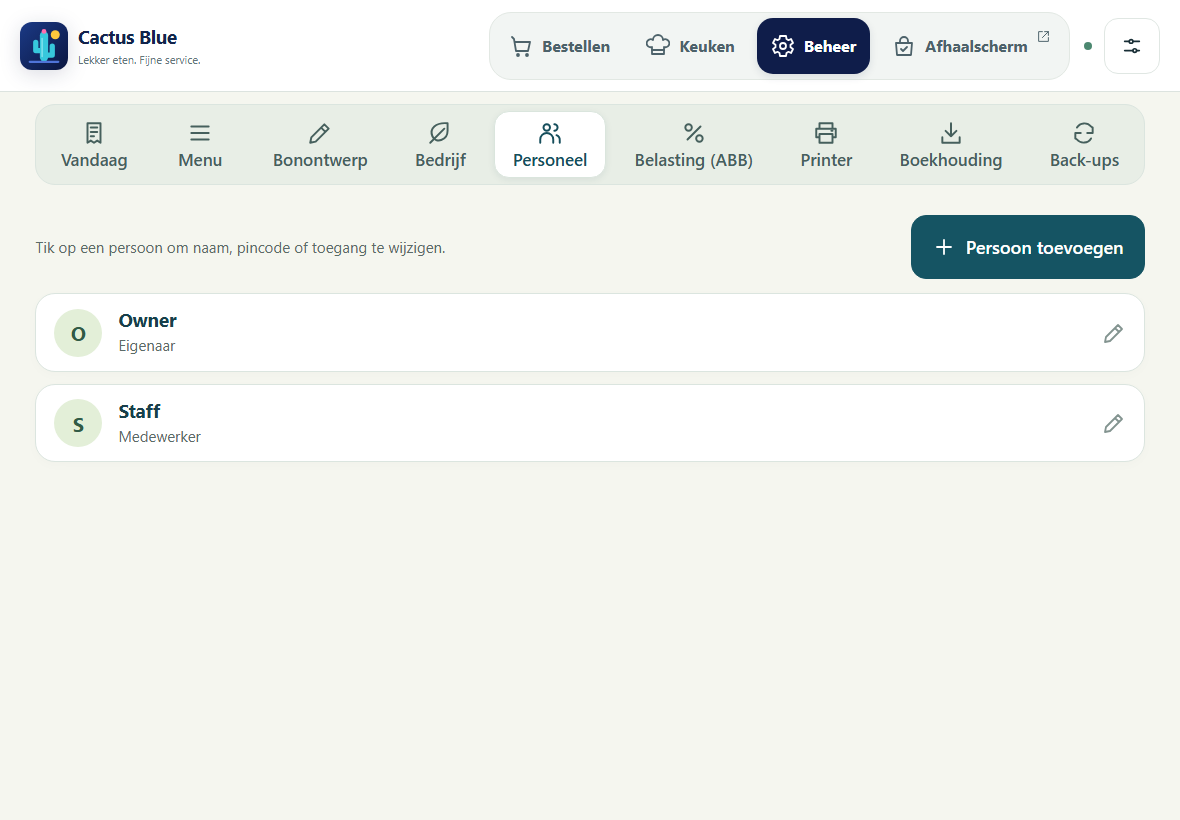
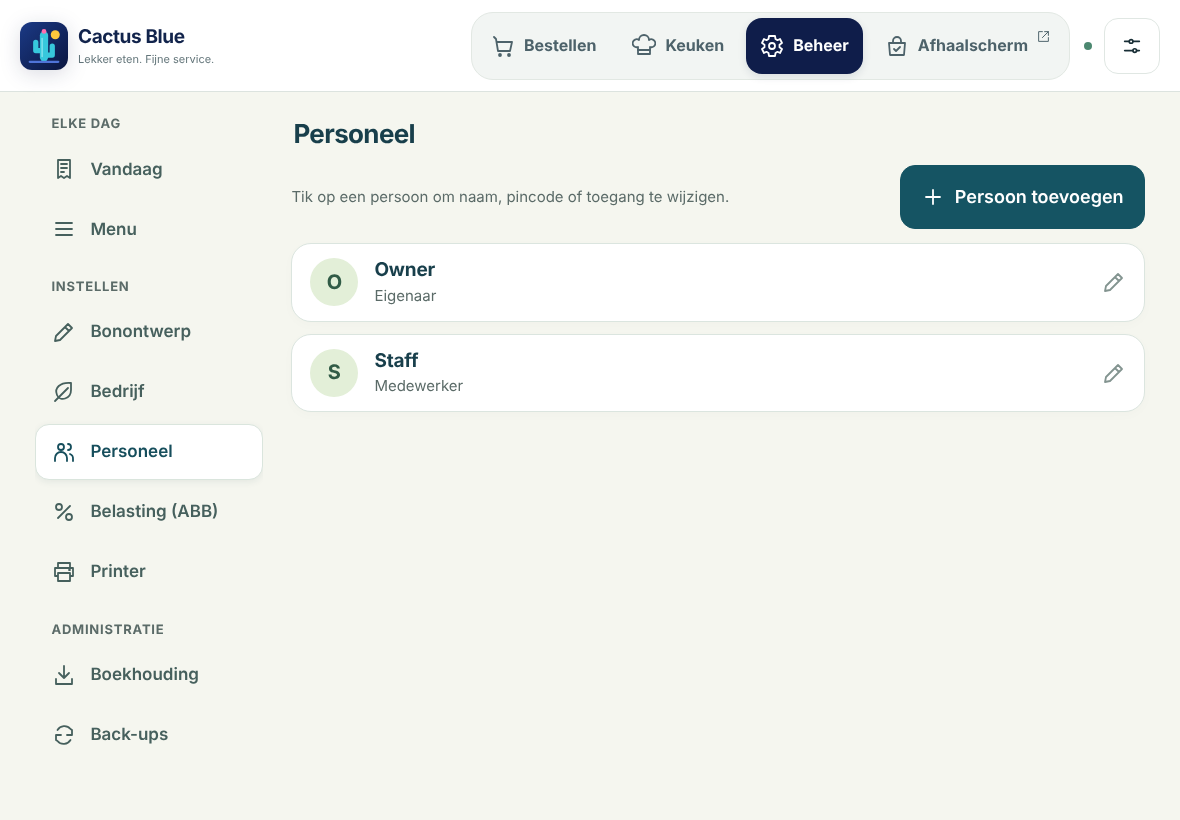
UX15: admin clean-up for readability and layout; kitchen follow-ups
Admin
- Sections grouped (Every day / Set up / Records). From 1100 px wide the
  same nav is a sticky side menu; narrower it stays the sideways row with
  thin group dividers. Tabs carry data-tab for tests and manual shots.
- Every page opens with its name and one-line description (visually
  hidden on phones and on Receipt design, which has its own header).
- 'notice info' for notes that only explain (Tax, Printer); amber stays
  for things to act on. Tighter notices on phones.
- Tax rows wrap their buttons under the text instead of squeezing it;
  beside the side menu, category Delete shows only its bin.

Kitchen
- Live updates pill kept (the manual's morning check relies on it); on
  phones it is just the green sign and the Kitchen heading is hidden so
  Wipe screen fits.

Also: e2e/kitchen-taps.mjs; manual EN/NL paragraph on short taps and
Wipe screen, retaken kitchen/admin pictures; shots.mjs selects tabs by
data-tab; handoff and board rows to review.

Claude-Session: https://claude.ai/code/session_01WTUtDnin2kAe3jG58CBoBK

diff --git a/packages/web/src/apps/admin/admin.css b/packages/web/src/apps/admin/admin.css
@@ -17,7 +17,12 @@
   margin: 0 auto;
 }
 .admin .admin-body { overflow: visible; padding: 8px 0 0; min-width: 0; }
-.admin-hint { margin: 0 2px 16px; color: var(--admin-muted); font-size: 15px; line-height: 1.5; }
+/* Every page opens with its name and, where it helps, one line on what it is for. */
+.admin-page-head { display: flex; flex-wrap: wrap; align-items: baseline; gap: 4px 16px; margin: 4px 2px 16px; }
+.admin-page-head h1 { margin: 0; font-size: 26px; line-height: 1.2; letter-spacing: -.025em; color: var(--admin-ink); }
+.admin-page-head p { flex: 1 1 280px; margin: 0; color: var(--admin-muted); font-size: 16px; line-height: 1.45; }
+.admin-page-head.is-quiet { margin: 0; }
+.admin-page-head.is-quiet h1 { position: absolute; width: 1px; height: 1px; overflow: hidden; clip-path: inset(50%); white-space: nowrap; }
 .admin .muted { color: var(--admin-muted); }
 
 /* ---- buttons ---- */
@@ -51,6 +56,9 @@
 .admin .admin-tabs .admin-scroll-track > button { flex: 1 0 auto; flex-direction: column; gap: 3px; min-width: 88px; padding: 8px 14px; line-height: 1.2; border-color: transparent; background: transparent; color: #46605d; }
 .admin .admin-tabs .admin-scroll-track > button svg { width: 26px; height: 26px; }
 .admin .admin-tabs .admin-scroll-track > button.on { background: #fff; color: #164e5c; box-shadow: 0 2px 7px #183f4b14; border-color: #dae5dd; }
+/* In the sideways row a group name is only a thin divider; the side menu below shows the words. */
+.admin-tabs-group { flex: none; align-self: stretch; width: 2px; margin: 10px 2px; border-radius: 2px; background: #c9d6cf; overflow: hidden; color: transparent; font-size: 0; }
+.admin-tabs-group:first-child { display: none; }
 
 /* ---- fields ---- */
 .admin :is(input, select) { min-height: var(--admin-field); min-width: 0; font-size: 17px; padding: 0 16px; border-color: #cddad2; border-radius: 14px; }
@@ -117,6 +125,8 @@
 /* ---- cards with their own buttons (tax, print jobs) ---- */
 .admin .orders { padding: 0; gap: 12px; }
 .admin .orders li { padding: 18px; border: 1px solid var(--admin-line); border-radius: 20px; box-shadow: 0 3px 12px #183f4b05; gap: 16px; min-height: var(--tap-xl); }
+/* The text keeps room to be read; when it would get narrower than this, the buttons move under it instead. */
+.admin .orders .grow { flex: 1 1 260px; }
 .admin .orders .grow b { font-size: 19px; }
 .admin .orders small { display: block; margin-top: 5px; font-size: 15px; line-height: 1.5; overflow-wrap: anywhere; }
 .admin .orders li.inactive { opacity: 1; background: #f0f2ed; }
@@ -129,6 +139,7 @@
 .admin-toolbar { display: flex; flex-wrap: wrap; align-items: center; gap: 10px; padding: 14px 0; }
 .admin-toolbar-hint { flex: 1 1 200px; margin: 0; color: var(--admin-muted); font-size: 15px; line-height: 1.45; }
 .admin .admin-remove { margin-left: 8px; }
+.staff-admin > .admin-toolbar:first-child { padding-top: 0; }
 .admin .admin-toolbar .admin-add { margin-left: auto; }
 /* Category name, its tools and Add item share one row, so the list starts high on a landscape tablet. */
 .menu-head { display: grid; grid-template-columns: auto minmax(0, 1fr) auto; grid-template-areas: "title tools add"; align-items: center; gap: 10px 18px; padding: 14px 0; }
@@ -143,6 +154,9 @@
 .admin .error { color: #9a3328; background: #fff0ed; border: 1px solid #f0c8bf; }
 .admin .ok { color: #2a6040; background: #edf5e8; border: 1px solid #cdddca; }
 .admin .notice { background: #fff9ea; border-color: #eadcb5; border-left: 4px solid #be8723; border-radius: 14px; padding: 16px; line-height: 1.55; color: #645522; margin: 0 0 18px; }
+/* Amber is kept for something to act on. A note that only explains is calm. */
+.admin .notice.info { background: #eef4f4; border-color: #d4e2e2; border-left-color: #6a959b; color: #34525a; font-size: 16px; }
+:root[data-theme=dark] .admin .notice.info { background: var(--info-soft); border-color: var(--line); border-left-color: var(--info); color: var(--ink); }
 .admin .tag { display: inline-flex; align-items: center; gap: 6px; padding: 5px 12px; font-size: 14px; font-weight: 700; line-height: 1.4; white-space: nowrap; }
 .admin .tag svg { width: 16px; height: 16px; }
 .admin .tag.warn { background: #fff0d8; color: #805112; }
@@ -228,6 +242,29 @@
 .books-accounts[open] summary::after { content: '−'; }
 .books .reports-status { margin: 0; }
 
+/* ---- landscape tablets and wider: the sections become a side menu, so the page itself starts at the top ---- */
+@media (min-width: 1100px) {
+  .admin.admin { display: grid; grid-template-columns: 228px minmax(0, 1fr); column-gap: 28px; align-items: start; max-width: 1340px; }
+  .admin-tabbar { margin: 0; padding: 20px 0 16px; max-height: calc(100dvh - 100px); overflow-y: auto; scrollbar-width: thin; }
+  .admin-tabbar::after { display: none; }
+  .admin-tabs.admin-scroll { border: 0; border-radius: 0; background: none; overflow: visible; }
+  .admin-tabs .admin-scroll-track { flex-direction: column; gap: 4px; padding: 0; overflow: visible; }
+  .admin-tabs .admin-scroll-hint { display: none; }
+  .admin .admin-tabs .admin-scroll-track > button { flex: none; flex-direction: row; justify-content: flex-start; gap: 14px; min-width: 0; min-height: var(--tap); padding: 0 16px; border-radius: 14px; text-align: left; white-space: normal; }
+  .admin .admin-tabs .admin-scroll-track > button svg { width: 24px; height: 24px; }
+  .admin .admin-tabs .admin-scroll-track > button:not(.on):active { background: #e8eee6; }
+  .admin-tabs-group, .admin-tabs-group:first-child { display: block; width: auto; height: auto; margin: 16px 16px 4px; background: none; border-radius: 0; color: var(--admin-muted); font-size: 13px; font-weight: 700; letter-spacing: .06em; text-transform: uppercase; }
+  .admin-tabs-group:first-child { margin-top: 2px; }
+  .admin .admin-body { padding-top: 22px; }
+  :root[data-theme=dark] .admin .admin-tabs.admin-scroll { background: none; }
+  :root[data-theme=dark] .admin .admin-tabs .admin-scroll-track > button:not(.on):active { background: var(--soft); }
+}
+/* Beside the side menu the page is narrower: Delete keeps only its red bin, so the menu's tools stay on one row in Dutch too. */
+@media (min-width: 1100px) and (max-width: 1279px) {
+  .admin .admin-toolbar .admin-remove { flex: none; width: var(--tap-lg); padding: 0; }
+  .admin .admin-toolbar .admin-remove span { display: none; }
+}
+
 /* ---- tablets: the reorder arrows drop their words so name, tools and Add item stay on one row, in Dutch too ---- */
 @media (max-width: 1279px) {
   .admin .admin-toolbar .admin-move { flex: none; width: var(--tap-lg); padding: 0; }
@@ -248,6 +285,12 @@
 /* ---- phones ---- */
 @media (max-width: 620px) {
   .admin.admin { padding-bottom: 28px; }
+  /* The chosen tab sits right above, so the page name is left to screen readers here. */
+  .admin-page-head { margin: 0 2px 12px; }
+  .admin-page-head h1 { position: absolute; width: 1px; height: 1px; overflow: hidden; clip-path: inset(50%); white-space: nowrap; }
+  .admin-page-head p { font-size: 15px; }
+  .admin .notice { padding: 12px 14px; font-size: 15px; line-height: 1.45; }
+  .admin-pin-reminder button { min-height: var(--tap); }
   .admin .two { grid-template-columns: minmax(0, 1fr); }
   .admin-form-card { padding: 18px; gap: 16px; }
   .admin .admin-tabs .admin-scroll-track > button { flex-grow: 0; }

diff --git a/packages/web/src/apps/admin/Admin.tsx b/packages/web/src/apps/admin/Admin.tsx
@@ -15,17 +15,23 @@ import { ScrollRow } from './controls';
 import './admin.css';
 import { ReceiptEditor } from './receipt-editor/ReceiptEditor';
 
-const TABS = ['reports', 'menu', 'receipts', 'business', 'staff', 'tax', 'printer', 'books', 'backups'] as const;
-type Tab = (typeof TABS)[number];
+type Tab = 'reports' | 'menu' | 'receipts' | 'business' | 'staff' | 'tax' | 'printer' | 'books' | 'backups';
+/** The pages in three groups: what is used every day, what is set up once, and the records kept for later. */
+const GROUPS: { id: 'daily' | 'setup' | 'records'; tabs: Tab[] }[] = [
+  { id: 'daily', tabs: ['reports', 'menu'] },
+  { id: 'setup', tabs: ['receipts', 'business', 'staff', 'tax', 'printer'] },
+  { id: 'records', tabs: ['books', 'backups'] },
+];
 const tabIcons: Record<Tab, IconName> = { reports: 'receipt', menu: 'menu', receipts: 'edit', business: 'leaf', staff: 'staff', tax: 'tax', printer: 'printer', books: 'download', backups: 'refresh' };
 
 export function Admin() {
-  const { t, lang } = useLang();
+  const { t } = useLang();
   const copy = useAdminCopy();
   const [tab, setTab] = useState<Tab>('reports');
   const root = useRef<HTMLDivElement>(null);
   /* The tabs stay pinned, so a new tab starts at its top instead of wherever the last one was scrolled to. */
   const choose = (x: Tab) => { setTab(x); root.current?.closest('main')?.scrollTo({ top: 0 }); };
+  const label = (x: Tab) => (x === 'receipts' ? copy.receiptDesign : t(`admin.${x}`));
   // A new database starts with the PINs 1234 and 1111. Until they are changed, the first Admin page says so
   // (one quiet line, not on every page); checked again after a visit to Staff.
   const [examplePins, setExamplePins] = useState<string[]>([]);
@@ -38,23 +44,32 @@ export function Admin() {
   return (
     <div className="admin" ref={root}>
       <div className="admin-tabbar">
+        {/* One list for every size: a row that scrolls sideways on phones and portrait tablets, a side menu on a
+            landscape tablet. The group names show in the side menu; in the row they are thin dividers. */}
         <ScrollRow nav className="admin-tabs" label={t('nav.admin')}>
-          {TABS.map((x) => (
-            <button key={x} type="button" className={tab === x ? 'on' : ''} data-active={tab === x} aria-current={tab === x ? 'page' : undefined} onClick={() => choose(x)}>
-              <Icon name={tabIcons[x]} /><span>{x === 'receipts' ? (lang === 'nl' ? 'Bonontwerp' : 'Receipt design') : t(`admin.${x}`)}</span>
-            </button>
-          ))}
+          {GROUPS.flatMap((g) => [
+            <span key={g.id} className="admin-tabs-group">{copy.groups[g.id]}</span>,
+            ...g.tabs.map((x) => (
+              <button key={x} type="button" data-tab={x} className={tab === x ? 'on' : ''} data-active={tab === x} aria-current={tab === x ? 'page' : undefined} onClick={() => choose(x)}>
+                <Icon name={tabIcons[x]} /><span>{label(x)}</span>
+              </button>
+            )),
+          ])}
         </ScrollRow>
       </div>
       <div className="admin-body">
+        {/* Menu and Staff show their one line of help beside their own buttons, to keep the list high on the screen.
+            The receipt editor opens with a heading of its own, so its page name is only for screen readers. */}
+        <header className={`admin-page-head${tab === 'receipts' ? ' is-quiet' : ''}`}>
+          <h1>{label(tab)}</h1>
+          {tab !== 'menu' && tab !== 'staff' && tab !== 'receipts' && <p>{copy[tab]}</p>}
+        </header>
         {examplePins.length > 0 && tab === 'reports' && (
           <p className="notice admin-pin-reminder" role="status">
             <span>{copy.examplePins(examplePins.join(', '))}</span>
             <button type="button" onClick={() => choose('staff')}><Icon name="staff" />{t('admin.staff')}</button>
           </p>
         )}
-        {/* Menu and Staff show their one line of help beside their own buttons, to keep the list high on the screen. */}
-        {tab !== 'menu' && tab !== 'staff' && tab !== 'receipts' && <p className="admin-hint">{copy[tab]}</p>}
         {tab === 'receipts' && <ReceiptEditor />}
         {tab === 'reports' && <ReportsAdmin />}
         {tab === 'menu' && <MenuAdmin />}

diff --git a/packages/web/src/apps/kitchen/Kitchen.tsx b/packages/web/src/apps/kitchen/Kitchen.tsx
@@ -10,7 +10,7 @@ import './kitchen.css';
 
 const copy = {
   en: {
-    subtitle: 'Every ticket, at a glance', reconnect: 'Reconnecting',
+    subtitle: 'Every ticket, at a glance', live: 'Live updates', reconnect: 'Reconnecting',
     active: 'active tickets', emptyHint: 'New orders will appear here automatically.',
     sentEmpty: 'No new tickets', preparingEmpty: 'Nothing cooking yet', readyEmpty: 'Nothing waiting for pickup',
     start: 'Start preparing', ready: 'Mark ready', recall: 'Recall', collected: 'Collected',
@@ -22,7 +22,7 @@ const copy = {
     wipe: 'Wipe screen', wipeHint: 'Pauses touch for 20 seconds so you can wipe the screen',
   },
   nl: {
-    subtitle: 'Elke bon in één oogopslag', reconnect: 'Verbinding herstellen',
+    subtitle: 'Elke bon in één oogopslag', live: 'Live updates', reconnect: 'Verbinding herstellen',
     active: 'actieve bonnen', emptyHint: 'Nieuwe bestellingen verschijnen hier automatisch.',
     sentEmpty: 'Geen nieuwe bonnen', preparingEmpty: 'Nog niets in bereiding', readyEmpty: 'Niets klaar om af te halen',
     start: 'Start bereiding', ready: 'Markeer klaar', recall: 'Terug', collected: 'Opgehaald',
@@ -261,8 +261,7 @@ export function Kitchen() {
           </div>
           <div className="kitchen-overview">
             <span className="kitchen-active"><b>{live.length}</b> {c.active}</span>
-            {/* The bar above already says the truck is connected; here only a lost connection is worth the room. */}
-            <span role="status">{!online && <span className="kitchen-connection reconnecting"><Icon name="wifi-off" size={20} />{c.reconnect}</span>}</span>
+            <span className={`kitchen-connection${online ? '' : ' reconnecting'}`} role="status"><Icon name={online ? 'wifi' : 'wifi-off'} size={20} /><span className="kitchen-connection-label">{online ? c.live : c.reconnect}</span></span>
             <button type="button" className="kitchen-wipe" title={c.wipeHint} aria-label={`${c.wipe}. ${c.wipeHint}`}
               onClick={() => { haptic(10); window.dispatchEvent(new Event(CLEAN_SCREEN_EVENT)); }}>
               <Icon name="sparkles" size={24} /><span>{c.wipe}</span>

diff --git a/packages/web/src/apps/kitchen/kitchen.css b/packages/web/src/apps/kitchen/kitchen.css
@@ -143,6 +143,11 @@
   .kitchen .kitchen-top-undo .kitchen-title, .kitchen .kitchen-top-undo .kitchen-overview { display: none; }
   .kitchen .kitchen-undo { max-width: none; }
   .kitchen .kitchen-wipe { padding: 0 14px; font-size: 17px; }
+  /* The Kitchen button just above already says where this is; the row goes to the connection and Wipe. */
+  .kitchen h1.kitchen-title { position: absolute; width: 1px; height: 1px; overflow: hidden; clip-path: inset(50%); white-space: nowrap; }
+  /* Room is short here: a connected screen shows only the green sign; Reconnecting keeps its word. */
+  .kitchen .kitchen-connection:not(.reconnecting) { padding: 8px 10px; }
+  .kitchen .kitchen-connection:not(.reconnecting) .kitchen-connection-label { position: absolute; width: 1px; height: 1px; overflow: hidden; clip-path: inset(50%); white-space: nowrap; }
   .kitchen .kitchen-switch { gap: 8px; }
   .kitchen .kitchen-switch button { flex-direction: column-reverse; gap: 1px; padding: 4px 4px 8px; font-size: 15px; }
   .kitchen .kitchen-switch button svg { display: none; }

diff --git a/docs/manual/manual.nl.html b/docs/manual/manual.nl.html
@@ -226,6 +226,7 @@
   <li>Tik op <kbd>Opgehaald</kbd> als de gast het heeft. De bestelling verdwijnt van het scherm.</li>
 </ol>
 <p>Te vroeg getikt? Met <kbd>Terug</kbd> gaat een bestelling die klaar was terug naar In bereiding, en <b>Ongedaan maken</b> bovenaan draait uw laatste tik terug. Op elke bon staat hoeveel minuten hij wacht; na 5 en na 10 minuten verandert hij van kleur.</p>
+<p>Vette handen? U kunt overal op een nieuwe bon of een bon in bereiding tikken, maar alleen een korte tik telt: een duim die op het scherm rust of een vinger die eroverheen veegt doet niets. Om het scherm schoon te maken tikt u bovenaan op <kbd>Scherm afnemen</kbd>: aanrakingen zijn dan 20 seconden gepauzeerd terwijl u het afneemt.</p>
 
 <h2>Afhaalscherm</h2>
 <p>Een scherm voor uw gasten: links de nummers die worden bereid, rechts de nummers die klaar zijn. Tik bovenaan op <kbd>Afhaalscherm</kbd>; het opent in een eigen venster. Er is geen pincode voor nodig, dus het kan de hele dag aanstaan op een tablet of tv die gasten kunnen zien.</p>

diff --git a/packages/web/src/apps/admin/copy.ts b/packages/web/src/apps/admin/copy.ts
@@ -3,6 +3,7 @@ import { useLang } from '../../i18n';
 const copy = {
   en: {
     title: 'Make it yours', intro: 'Your menu, team and truck settings in one place.',
+    receiptDesign: 'Receipt design', groups: { daily: 'Every day', setup: 'Set up', records: 'Records' },
     reports: 'Today at a glance, and closing the day for the books.',
     menu: 'Keep your menu ready for service. Prices include ABB.',
     business: 'Business details and the personal touches on every receipt.',
@@ -34,6 +35,7 @@ const copy = {
   },
   nl: {
     title: 'Maak het eigen', intro: 'Je menu, team en instellingen op één plek.',
+    receiptDesign: 'Bonontwerp', groups: { daily: 'Elke dag', setup: 'Instellen', records: 'Administratie' },
     reports: 'Vandaag in één oogopslag, en de dag afsluiten voor de boekhouding.',
     menu: 'Houd je menu klaar voor verkoop. Prijzen zijn inclusief ABB.',
     business: 'Bedrijfsgegevens en de persoonlijke details op elke bon.',

diff --git a/docs/manual/manual.en.html b/docs/manual/manual.en.html
@@ -226,6 +226,7 @@
   <li>Tap <kbd>Collected</kbd> when the guest has it. The order leaves the screen.</li>
 </ol>
 <p>Tapped too soon? <kbd>Recall</kbd> puts a ready order back to Preparing, and <b>Undo</b> at the top takes back your last tap. Each ticket shows how many minutes it has been waiting, and changes colour after 5 and after 10 minutes.</p>
+<p>Greasy hands? You can tap anywhere on a new or preparing ticket, but only a short tap counts: a thumb resting on the screen or a finger sliding across it does nothing. To clean the screen, tap <kbd>Wipe screen</kbd> at the top: touch is paused for 20 seconds while you wipe it.</p>
 
 <h2>Pickup board</h2>
 <p>A screen for your guests: the numbers that are being prepared on the left, the numbers that are ready on the right. Tap <kbd>Pickup board</kbd> at the top; it opens in a window of its own. It needs no PIN, so it can run all day on a tablet or TV that guests can see.</p>

diff --git a/packages/web/src/apps/admin/PrinterAdmin.tsx b/packages/web/src/apps/admin/PrinterAdmin.tsx
@@ -47,7 +47,7 @@ export function PrinterAdmin() {
 
   return (
     <div className="form" aria-busy={busy}>
-      <p className="notice">{t('printer.intro')}</p>
+      <p className="notice info">{t('printer.intro')}</p>
       <section className="admin-form-card">
         <h3><Icon name="printer" />{copy.connection}</h3>
         {toggle('enabled', t('printer.enabled'))}

diff --git a/packages/web/src/apps/admin/TaxAdmin.tsx b/packages/web/src/apps/admin/TaxAdmin.tsx
@@ -155,7 +155,7 @@ export function TaxAdmin() {
 
   return (
     <div>
-      {charged && <p className="notice">{c.intro}</p>}
+      {charged && <p className="notice info">{c.intro}</p>}
       {err && !adding && !draft && switching === null && <div className="error" role="alert">{err}</div>}
       {setup && (
         <div className="tax-switch">

diff --git a/docs/coordination/handoffs/2026-10-30-claude-UX15-UX16.md b/docs/coordination/handoffs/2026-10-30-claude-UX15-UX16.md
@@ -1,0 +1,65 @@
+# Handoff: UX15 + UX16 — admin clean-up, kitchen for greasy fingers
+- Agent: claude   Date: 2026-10-30   Branch: claude/amazing-ramanujan-kne4ff
+
+Owner request: work on UI/UX; clean up the admin screen for readability and layout, and make the kitchen screen
+easier for a cook with greasy fingers.
+
+## What changed
+**Kitchen (UX16, `apps/kitchen/`)**
+- **Wipe screen** button on the kitchen header. It opens the existing 20-second cleaning pause from Screen tools
+  (which was two taps deep). The shell listens for `CLEAN_SCREEN_EVENT` (`lib/display.ts`); this is the only
+  web-core change, a few lines in `ui/AppShell.tsx`.
+- **Only a deliberate tap moves a ticket on.** A press held longer than 0.7 s (a thumb steadying the tablet) or one
+  that slides more than 16 px (a smear) is ignored, on the whole ticket and on its buttons. Keyboard presses
+  (`detail === 0`) always count, so `element.click()` in the e2e tools still works.
+- Options (Extra cheese, Hot) and line notes are larger and nearly as bright as the item; bigger ticket number and
+  quantity badge. Recall is outlined and 20 px from Collected.
+- On phones the "Kitchen" heading is hidden (the highlighted Kitchen button sits just above it) and the connection
+  pill is reduced to its green Wi-Fi sign, so Wipe fits. Reconnecting keeps its word.
+
+**Admin (UX15, `apps/admin/`)**
+- The nine sections are grouped: **Every day** (Today, Menu), **Set up** (Receipt design, Business, Staff, Tax,
+  Printer), **Records** (Bookkeeping, Backups). At 1100 px and wider the same `<nav>` becomes a sticky side menu
+  (CSS only, one DOM); narrower it stays the sideways row, with thin dividers between groups.
+- Every page opens with its name as a heading plus the one-line description. Hidden visually on phones (the chosen
+  tab sits right above) and on Receipt design (the editor has its own header); always there for screen readers.
+- `notice info`: a calm grey-blue style for notes that only explain (Tax intro, Printer intro). Amber is kept for
+  something to act on (unpaid orders, example PINs).
+- Tighter notices on phones; tax rows let their buttons wrap under the text instead of squeezing it; beside the side
+  menu the category Delete keeps only its red bin (aria-label unchanged), so the Dutch menu tools stay on one row.
+
+**Elsewhere**
+- `e2e/kitchen-taps.mjs` (new, added to `e2e/run.mjs`): short tap moves on, resting thumb and smear do not, Wipe pauses touch.
+- `docs/manual/shots.mjs` selects admin tabs by `data-tab` instead of `:nth-child` (the group labels are siblings now).
+- Manual EN + NL: one paragraph in the Kitchen section about short taps and **Wipe screen** / **Scherm afnemen**.
+  Retook the pictures of the screens that changed (kitchen, admin pages, close-day); the rest are untouched.
+
+## Contracts touched
+None. No routes, events or schemas changed. New DOM hooks: `.admin-tabs button[data-tab]`, `.admin-tabs-group`,
+`.admin-page-head`, `.kitchen-wipe`.
+
+## How to verify
+```bash
+npm run check
+npm run e2e
+```
+All 7 browser checks pass, including `kitchen-taps.mjs`. In a browser: Kitchen, tap **Wipe screen** (touch pauses
+20 s); press and hold a New ticket for a second, nothing happens; a short tap starts it. Admin at 1180x820 shows the
+side menu, at 1024x700 the grouped row. `page.measure()` is clean on every admin page and the kitchen at the four
+check sizes, light and dark.
+
+## Gotchas / decisions
+- **Side menu vs. owner's UX08 preference.** The owner asked for top navigation back in UX08; that was about the
+  app-wide navigation. Admin's own sections becoming a side menu on a wide screen is a different thing, but if the
+  owner dislikes it, removing the `@media (min-width: 1100px)` block in `admin.css` restores the row exactly.
+- The tap thresholds (700 ms, 16 px) are a judgement call; they live at the top of `Kitchen.tsx`. Start/Ready are
+  still not double-confirmed: Undo covers Ready and Collected as before.
+- The manual pictures here were taken with Chromium on Linux, so their font differs slightly from the Windows Edge
+  pictures beside them. Re-run `node scripts/make-manual.mjs --shots` on the Windows laptop before the next release
+  to make them match. (`make-manual` printing the PDF failed in this Linux container; the pictures were written.)
+- Running the screenshot tools as root on Linux needs Chromium with `--no-sandbox` (a two-line wrapper in
+  `SHOT_BROWSER`); nothing in the repo was changed for that.
+
+## Follow-ups
+None created. Possible next steps if the owner likes the direction: a "lock to kitchen" device setting that hides the
+top navigation on the kitchen tablet, so a greasy palm cannot switch screens.

diff --git a/docs/coordination/BOARD.md b/docs/coordination/BOARD.md
@@ -113,8 +113,8 @@ From the app audit of master at 36f2e8d: [handoffs/2026-10-10-claude-app-audit.m
 |---|---|---|---|---|---|---|
 | TAX01 | shared / web-admin / qa | Owner request: Tax tab usable by any Bonaire business (new categories from presets, rename, legal ground, tax check), typing menu prices without ABB, sanity check of the 6% included setup; PyroBookKeeper left out | - | review | claude · 2026-10-30 | Categories can be added and named; check panel flags missing/unverified rates; ex-ABB entry stores the inclusive price exactly; checks and e2e pass; handoff 2026-10-30-claude-TAX01.md |
 | TAX02 | shared / server / receipt / web-admin / web-screens / books / qa | Owner requests: remove PyroBookKeeper entirely (ADR-0003, CSV exports kept); business-wide "Charge ABB" switch for food-truck exemption | TAX01 | review | claude · 2026-10-30 | No PyroBookKeeper code or route left; switch off = new sales exempt at the same total, earlier sales unchanged, reason required, owner only; receipt/menu board drop the ABB claim; checks and e2e pass; handoff 2026-10-30-claude-TAX02.md |
-| UX15 | web-admin (+ docs/manual/shots.mjs selector) | Owner request: admin clean-up for readability and layout: grouped sections (side menu on a landscape tablet), a title on every page, calm info notes vs. amber warnings, tighter notices on phones | - | doing | claude · 2026-10-30 | Same pages and saves; every admin page readable at the four check sizes; `page.measure()` clean; checks and e2e pass |
-| UX16 | web-screens (+ web-core: one event hook in AppShell) | Owner request: kitchen screen for a cook with greasy fingers: wipe-screen button on the kitchen itself, resting thumbs and smears do not advance a ticket, larger/brighter modifiers, Recall further from Collected | - | doing | claude · 2026-10-30 | A press that moves or rests does not bump a ticket; wipe locks touch for 20 s from the kitchen header; `page.measure()` clean at the four check sizes; checks and e2e pass |
+| UX15 | web-admin (+ docs/manual/shots.mjs selector) | Owner request ([handoff](handoffs/2026-10-30-claude-UX15-UX16.md)): admin clean-up for readability and layout: grouped sections (side menu on a landscape tablet), a title on every page, calm info notes vs. amber warnings, tighter notices on phones | - | review | claude · 2026-10-30 | Same pages and saves; every admin page readable at the four check sizes; `page.measure()` clean; checks and e2e pass |
+| UX16 | web-screens (+ web-core: one event hook in AppShell) | Owner request ([handoff](handoffs/2026-10-30-claude-UX15-UX16.md)): kitchen screen for a cook with greasy fingers: wipe-screen button on the kitchen itself, resting thumbs and smears do not advance a ticket, larger/brighter modifiers, Recall further from Collected | - | review | claude · 2026-10-30 | A press that moves or rests does not bump a ticket; wipe locks touch for 20 s from the kitchen header; `page.measure()` clean at the four check sizes; checks and e2e pass |
 
 ## Parallelization at a glance
 - **Wave 1 (parallel after T00):** T01, T02, T06
